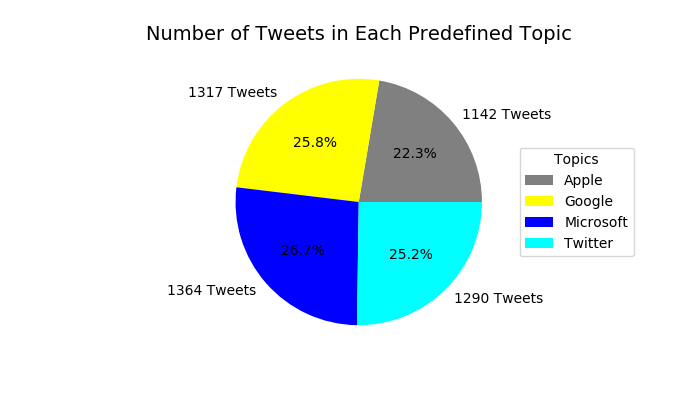
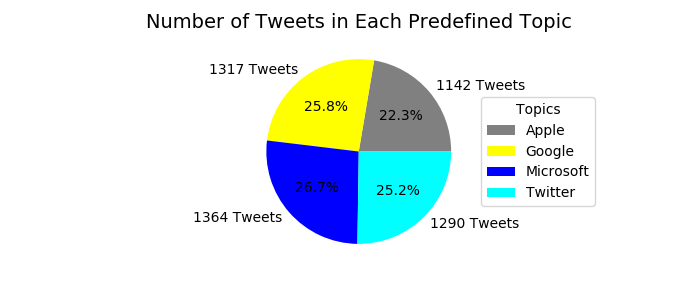
Added to README and made pie chart of sentiments

Changed region(s): [[0.24, 0.18, 0.9, 0.81], [0.21, 0.03, 0.84, 0.12]]

diff --git a/main.py b/main.py
@@ -124,23 +124,23 @@ if __name__ == '__main__':
     Segmenting df by Topics 'Apple, Google, Microsoft, Twitter'
     '''
     
-    apple_corpus, google_corpus, ms_corpus, twitter_corpus = get_topics_corpus(twitter)
+    # apple_corpus, google_corpus, ms_corpus, twitter_corpus = get_topics_corpus(twitter)
 
-    print('Latent Topics for Tweets about Apple')
-    run_lda(apple_corpus, num_topics=5, custom_stopwords=True, filepath_wc='media/tf_apple.png', make_vis=True, filepath_lda='media/apple.html')
-    print('\n\n')
+    # print('Latent Topics for Tweets about Apple')
+    # run_lda(apple_corpus, num_topics=5, custom_stopwords=True, filepath_wc='media/tf_apple.png', make_vis=True, filepath_lda='media/apple.html')
+    # print('\n\n')
 
-    print('Latent Topics for Tweets about Google')
-    run_lda(google_corpus, num_topics=5, custom_stopwords=True, filepath_wc='media/tf_google.png', make_vis=True, filepath_lda='media/google.html')
-    print('\n\n')
+    # print('Latent Topics for Tweets about Google')
+    # run_lda(google_corpus, num_topics=5, custom_stopwords=True, filepath_wc='media/tf_google.png', make_vis=True, filepath_lda='media/google.html')
+    # print('\n\n')
 
-    print('Latent Topics for Tweets about Microsoft')
-    run_lda(ms_corpus, num_topics=5, custom_stopwords=True, filepath_wc='media/tf_microsoft.png', make_vis=True, filepath_lda='media/microsoft.html')
-    print('\n\n')
+    # print('Latent Topics for Tweets about Microsoft')
+    # run_lda(ms_corpus, num_topics=5, custom_stopwords=True, filepath_wc='media/tf_microsoft.png', make_vis=True, filepath_lda='media/microsoft.html')
+    # print('\n\n')
 
-    print('Latent Topics for Tweets about Twitter')
-    run_lda(twitter_corpus, num_topics=5, custom_stopwords=True, filepath_wc='media/tf_twitter.png', make_vis=True, filepath_lda='media/twitter.html')
-    print('\n\n')
+    # print('Latent Topics for Tweets about Twitter')
+    # run_lda(twitter_corpus, num_topics=5, custom_stopwords=True, filepath_wc='media/tf_twitter.png', make_vis=True, filepath_lda='media/twitter.html')
+    # print('\n\n')
     
     
     # corpus = twitter['TweetText'].to_numpy()
@@ -157,9 +157,9 @@ if __name__ == '__main__':
     
     
     # Testing Visualizer functions
-    # viz = Visualizer()
+    viz.plot_sentiments_pie()
     # viz.plot_categories_bar()
-    # viz.plot_categories_pie()
+    viz.plot_categories_pie()
 
     # word_count = cleaner.wc_whole_corpus()
     # viz.plot_wc(word_count, n=20, filepath='media/tf_withviz.png')

diff --git a/src/visualizer.py b/src/visualizer.py
@@ -83,7 +83,7 @@ class Visualizer(object):
         topic_labels = ['1142 Tweets', '1317 Tweets', '1364 Tweets', '1290 Tweets']
         legend_labels = ['Apple', 'Google', 'Microsoft', 'Twitter']
 
-        fig, ax = plt.subplots(figsize=(7, 4))
+        fig, ax = plt.subplots(figsize=(7, 3))
         
         wedges, texts, autotexts = plt.pie(topic_values, \
                                            labels=topic_labels, \
@@ -97,6 +97,34 @@ class Visualizer(object):
         
         plt.title('Number of Tweets in Each Predefined Topic', fontsize=14)
         plt.savefig('media/categories_pie.png')
+        # plt.show()
+
+
+    def plot_sentiments_pie(self):
+        '''
+            - 519 documents labeled as having a positive sentiment
+            - 572 documents labeled as having a negative sentiment
+            - 2333 documents labeled as having a neutral sentiment
+            - 1689 documents labeled as having an irrelevant sentiment
+        '''
+        sentiment_values = [2333, 519, 572, 1689]
+        sentiment_labels = ['2333 Tweets', '519 Tweets', '572 Tweets', '1689 Tweets']
+        legend_labels = ['Neutral', 'Postive', 'Negative', 'Irrelevant']
+
+        fig, ax = plt.subplots(figsize=(7, 3))
+        
+        wedges, texts, autotexts = plt.pie(sentiment_values, \
+                                           labels=sentiment_labels, \
+                                           colors=['grey', 'green', 'red', 'cyan'], \
+                                           autopct='%1.1f%%', \
+                                           textprops=dict(color="black"))
+        plt.legend(wedges, legend_labels,
+                   title="Topics",
+                   loc="center left",
+                   bbox_to_anchor=(1, 0, 0.5, 1))
+        
+        plt.title('Number of Tweets for Each Sentiment Topic', fontsize=14)
+        plt.savefig('media/sentiment_pie.png')
         # plt.show()
 
 

diff --git a/README.md b/README.md
@@ -11,6 +11,7 @@ My goal for the project was to be able to identify clusters within the entire co
 
 
 ### Notes about the data
+![picture of the dataframe of the csv file](media/twitter_df.png)
 - 5113 total documents
     - Sentiment
         - 519 documents labeled as having a positive sentiment
@@ -24,6 +25,7 @@ My goal for the project was to be able to identify clusters within the entire co
         - 1290 documents labeled as having a topic of Twitter
 
 ![Pie Chart about Data](./media/categories_pie.png)
+![Pie Chart about Data](media/sentiment_pie.png)
 
 
 ### Notes about NLP process
